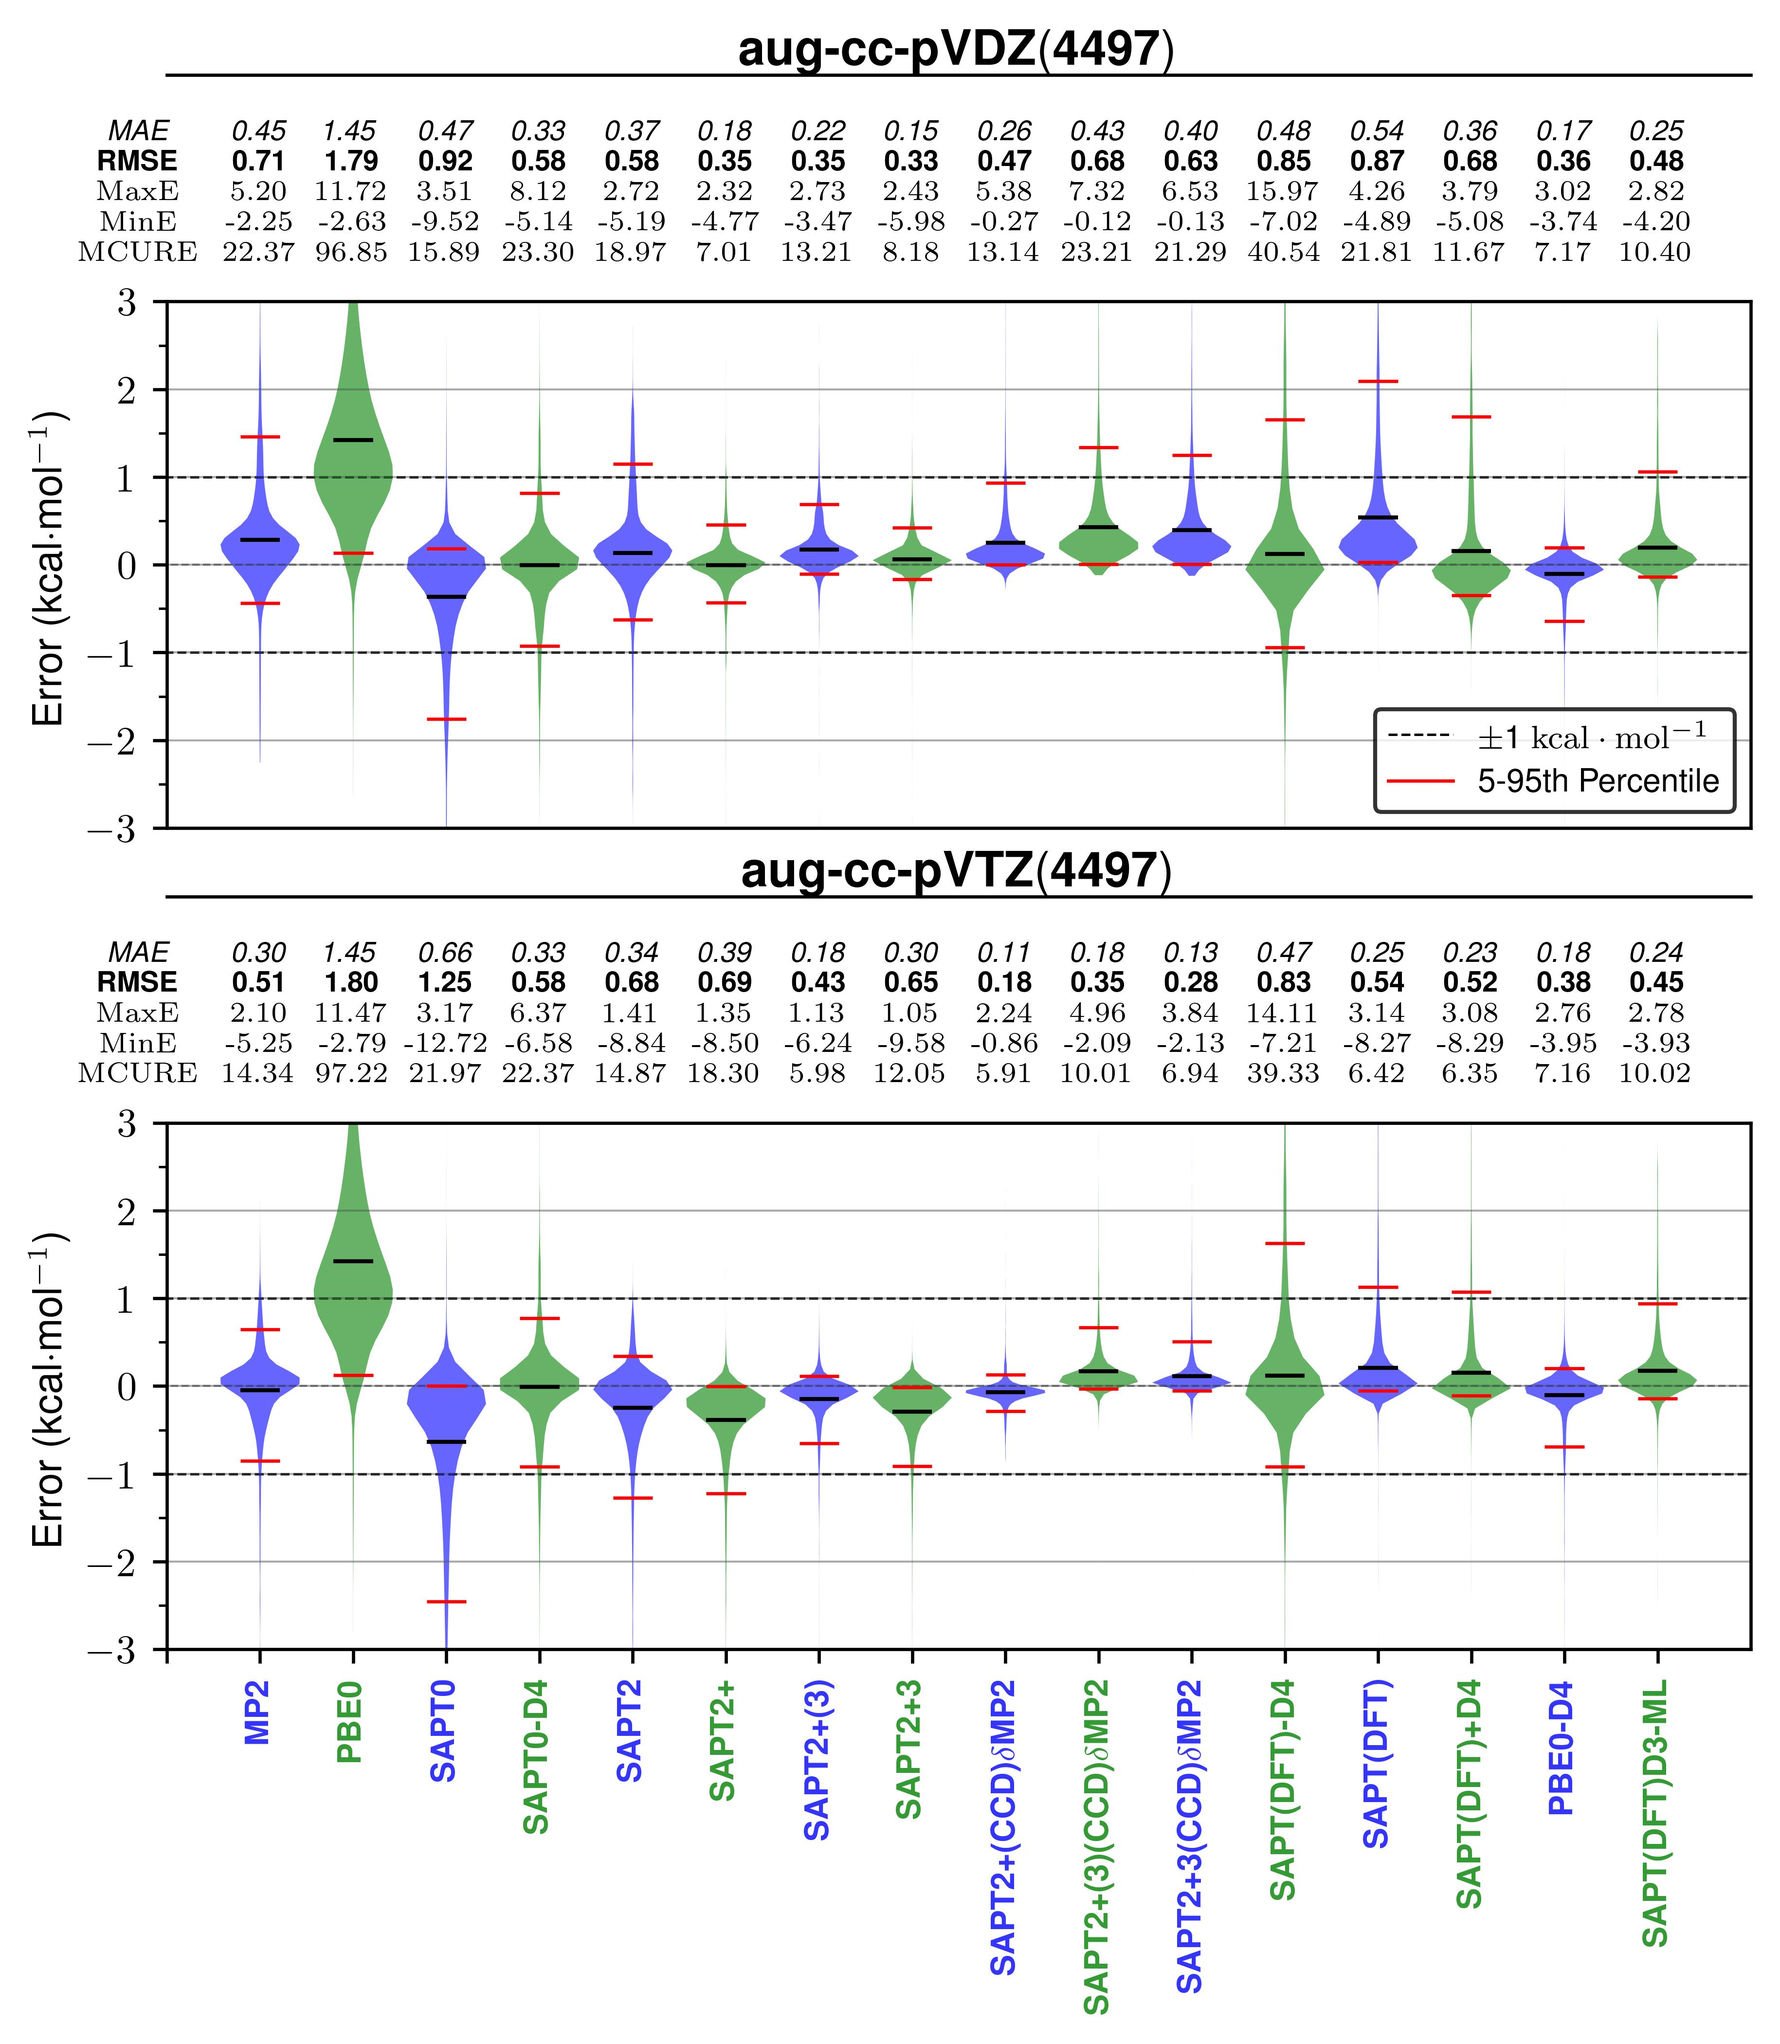
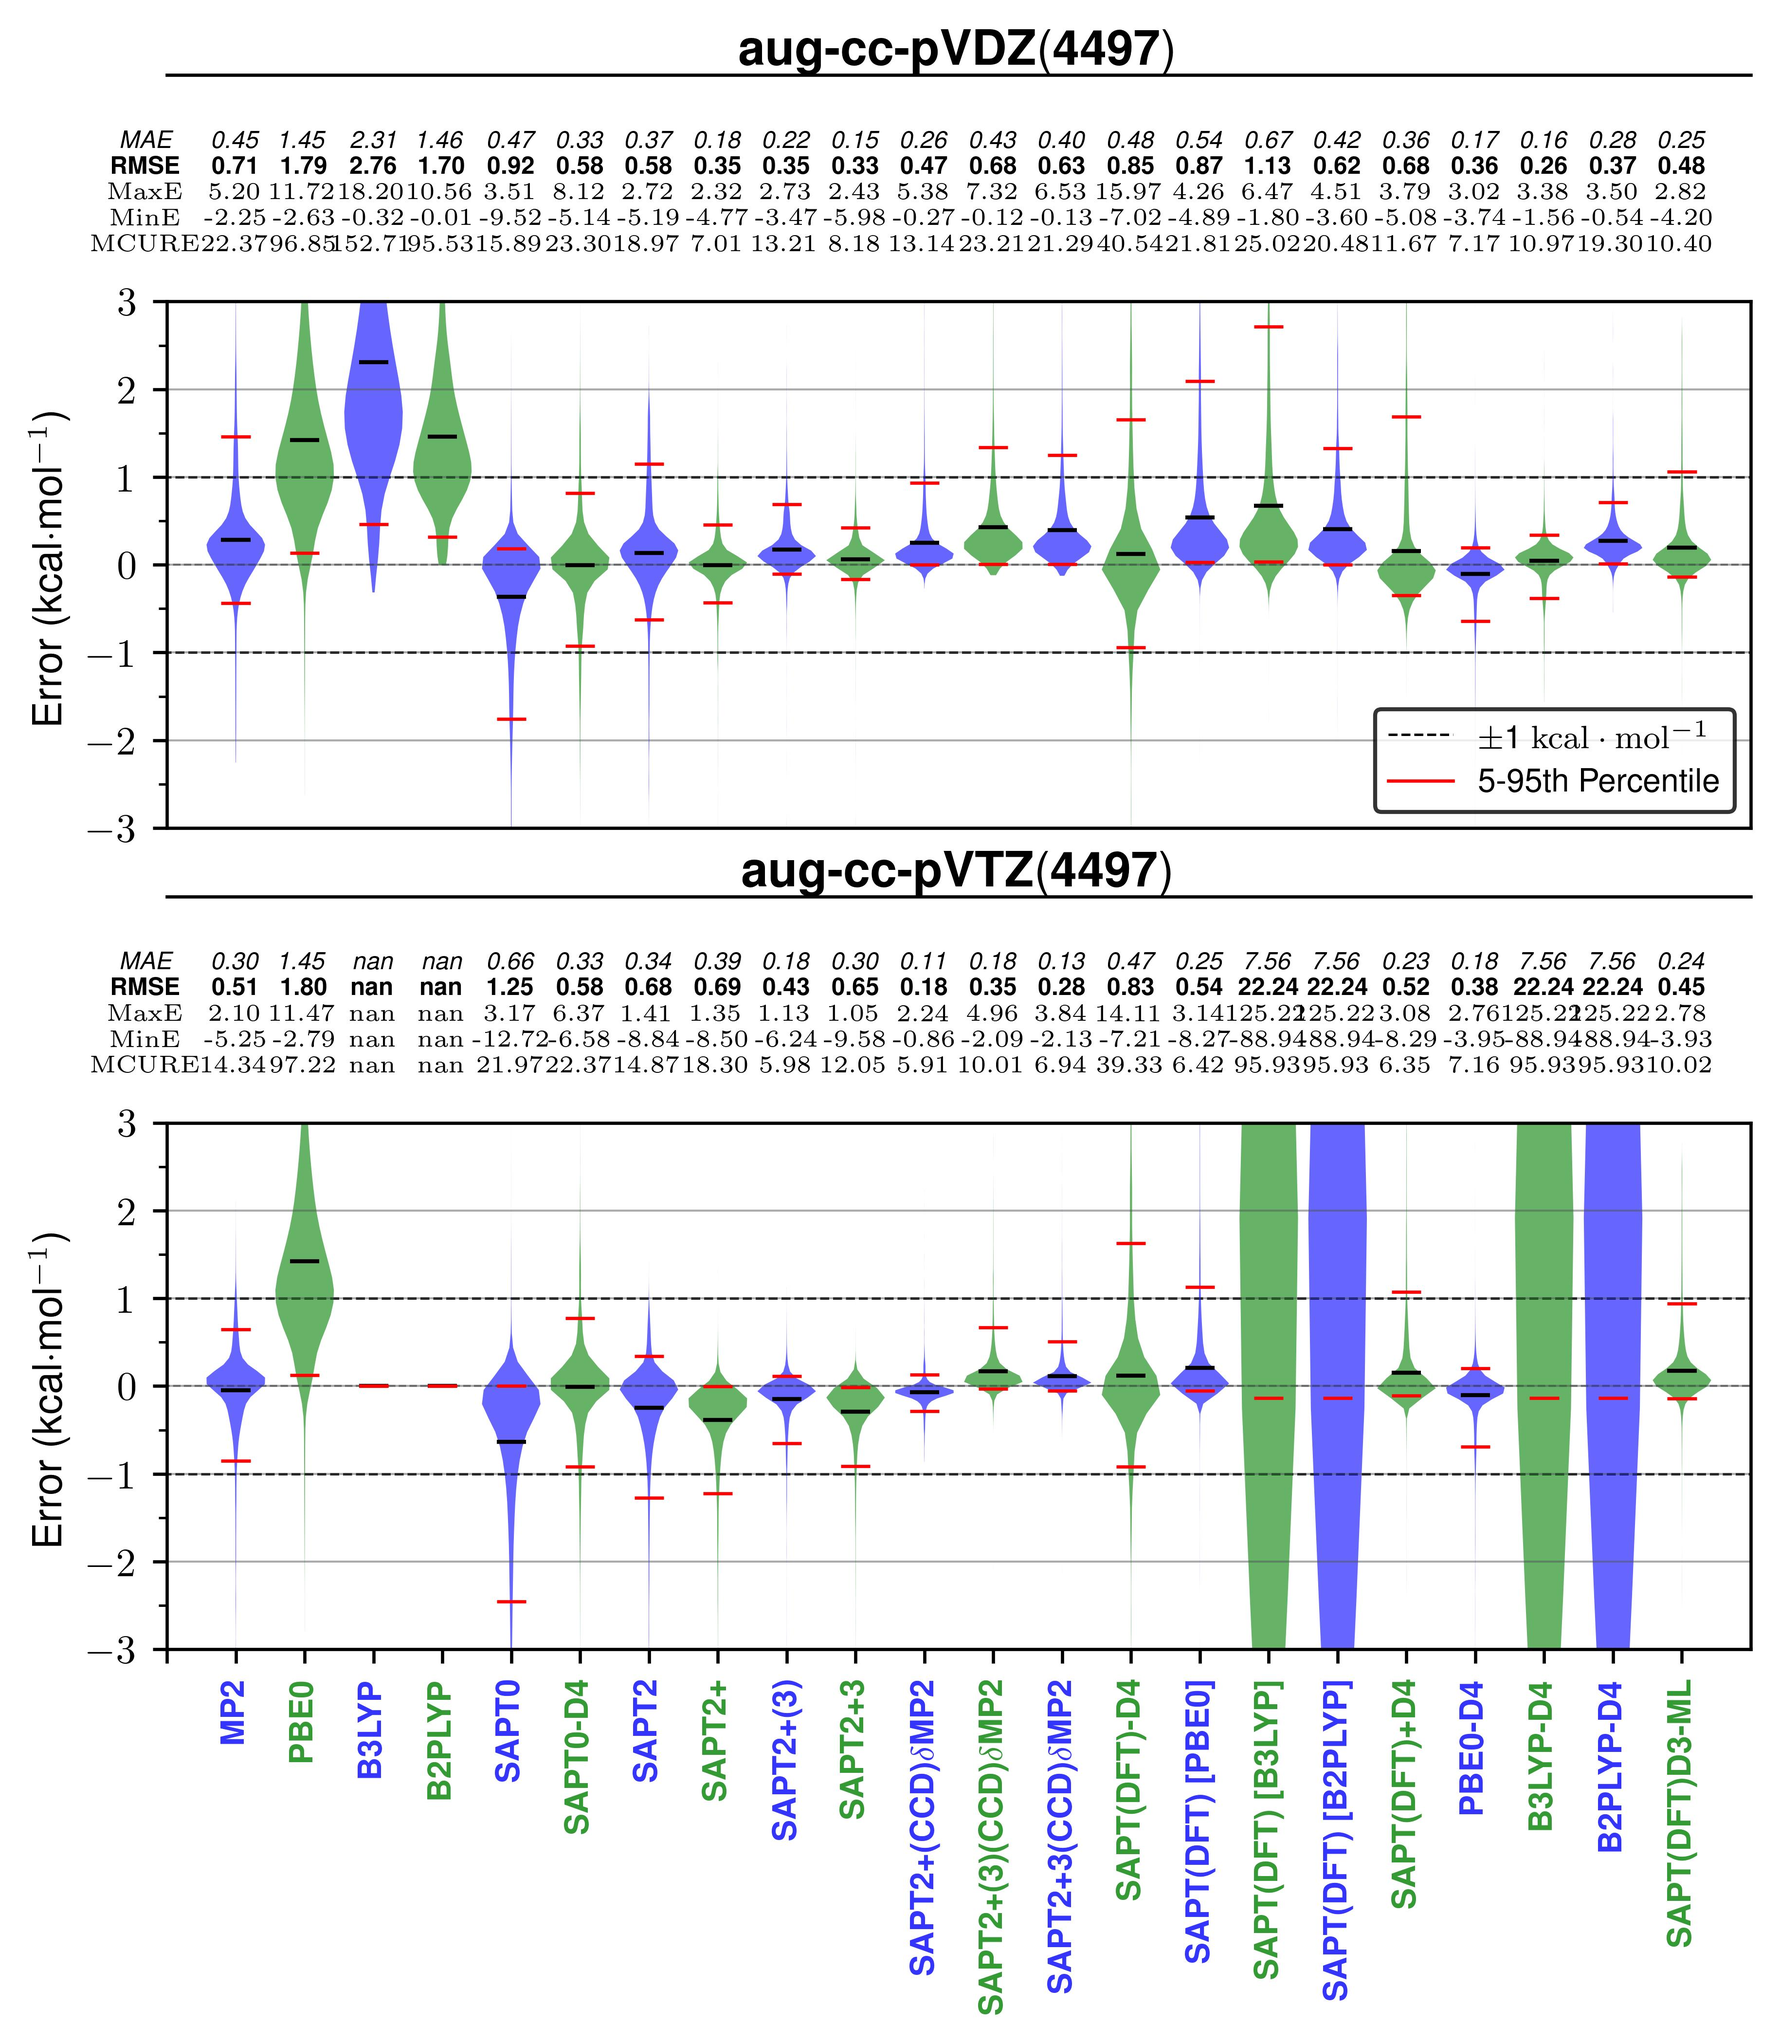
b3lyp and b2plyp plotting adz

Changed region(s): [[0.0312, 0.4368, 0.9661, 0.9983], [0.0623, 0.0624, 0.9661, 0.3744]]

diff --git a/src/plotting.py b/src/plotting.py
@@ -1393,7 +1393,7 @@ def prepare_saptdft_columns(df, functional, basis_set):
     if f"SAPT_DFT_{functional}_{basis_set}" not in df.columns:
         print(f"Zeroing SAPT_DFT_{functional}_{basis_set} because not found...")
         df[f"SAPT_DFT_{functional}_{basis_set}"] = df.apply(
-            lambda x: np.array([0,0,0,0,0]), axis=1
+            lambda x: [0,0,0,0,0], axis=1
         )
         df[f"SAPT_DFT_{functional}_{basis_set}_dDFT"] = df.apply(
             lambda x: 0, axis=1
@@ -1407,11 +1407,11 @@ def prepare_saptdft_columns(df, functional, basis_set):
         df[f"SAPT_DFT_{functional}_{basis_set}_DFT_IE"] = df.apply(
             lambda x: 0, axis=1
         )
-    else:
-        print(df[f"SAPT_DFT_{functional}_{basis_set}"])
+    # else:
+    #     print(df[f"SAPT_DFT_{functional}_{basis_set}"])
 
     df[f"SAPT_DFT_D4_{functional}_{basis_set}_total"] = df.apply(
-        lambda x: compute_saptdft_ddft_ie(x, f"{basis_set}"),
+        lambda x: compute_saptdft_ddft_ie(x, f"{basis_set}", functional=functional),
         axis=1,
     )
     df[f"DFT-D4/{basis_set}"] = df.apply(
@@ -1513,7 +1513,6 @@ def plotting_setup_dft_ddft(
 
         df.dropna(subset=[f"SAPT_DFT_D4_{functional}_{basis_set}_total"], inplace=True)
 
-        print(df[['SAPT_DFT_pbe0_adz_3_IE', "SAPT_DFT_pbe0_adz_elst"]])
 
         df = prepare_saptdft_columns(df, "pbe0", "atz")
         df = prepare_saptdft_columns(df, "pbe0", "aqz")
@@ -1923,7 +1922,33 @@ def plotting_setup_dft_ddft(
             ),
             axis=1,
         )
-        print(df[['SAPT_DFT_pbe0_adz', "SAPT_DFT_pbe0_adz_D4_IE"]])
+
+        df["B3LYP IE adz"] = df.apply(
+            lambda r: (
+                r["SAPT_DFT_b3lyp_adz_dDFT"]
+                + r["SAPT_DFT_b3lyp_adz_elst"]
+                + r["SAPT_DFT_b3lyp_adz_exch"]
+                + r["SAPT_DFT_b3lyp_adz_indu"]
+                - r["SAPT_DFT_b3lyp_adz_dHF"]
+                if r["SAPT_DFT_D4_b3lyp_adz_total"]
+                else np.nan
+            ),
+            axis=1,
+        )
+
+        df["B2PLYP IE adz"] = df.apply(
+            lambda r: (
+                r["SAPT_DFT_b2plyp_adz_dDFT"]
+                + r["SAPT_DFT_b2plyp_adz_elst"]
+                + r["SAPT_DFT_b2plyp_adz_exch"]
+                + r["SAPT_DFT_b2plyp_adz_indu"]
+                - r["SAPT_DFT_b2plyp_adz_dHF"]
+                if r["SAPT_DFT_D4_b2plyp_adz_total"]
+                else np.nan
+            ),
+            axis=1,
+        )
+
         df["PBE0-D4 IE adz"] = df.apply(
             lambda r: (
                 r["PBE0 IE adz"] + r["SAPT_DFT_pbe0_adz_D4_IE"]
@@ -1932,20 +1957,44 @@ def plotting_setup_dft_ddft(
             ),
             axis=1,
         )
-        print(df['PBE0-D4 IE adz'])
+
+        df["PBE0-D4 IE adz"] = df.apply(
+            lambda r: (
+                r["PBE0 IE adz"] + r["SAPT_DFT_pbe0_adz_D4_IE"]
+                if r["SAPT_DFT_D4_pbe0_adz_total"]
+                else np.nan
+            ),
+            axis=1,
+        )
+
+        df["B2PLYP-D4 IE adz"] = df.apply(
+            lambda r: (
+                r["B2PLYP IE adz"] + r["SAPT_DFT_b2plyp_adz_D4_IE"]
+                if r["SAPT_DFT_D4_b2plyp_adz_total"]
+                else np.nan
+            ),
+            axis=1,
+        )
+
+        df["B3LYP-D4 IE adz"] = df.apply(
+            lambda r: (
+                r["B3LYP IE adz"] + r["SAPT_DFT_b3lyp_adz_D4_IE"]
+                if r["SAPT_DFT_D4_b3lyp_adz_total"]
+                else np.nan
+            ),
+            axis=1,
+        )
+
         for n, r in df.iterrows():
-            if np.abs(r["SAPT_DFT_pbe0_adz_total"] - r["PBE0-D4 IE adz"]) > 1e-16:
+            if np.abs(r["SAPT_DFT_D4_pbe0_adz_total"] - r["PBE0-D4 IE adz"]) > 1e-16:
                 print(
                     n,
                     r["benchmark ref energy"],
                     r["SAPT_DFT_pbe0_adz_total"],
                     r["PBE0-D4 IE adz"],
                 )
-        print(len(df))
         df_test = df.dropna(subset=["SAPT_DFT_D4_pbe0_adz_total"])
-        print(len(df_test))
         df_test = df_test.dropna(subset=["PBE0-D4 IE adz"])
-        print(len(df_test))
         assert np.allclose(
             df_test["PBE0-D4 IE adz"], df_test["SAPT_DFT_D4_pbe0_adz_total"], atol=1e-16
         )
@@ -3953,6 +4002,8 @@ def violin_plots_multi(df, limit_to_column_not_nan=None):
     sapt_methods = [
         "MP2 IE",
         "PBE0 IE",
+        "B3LYP IE",
+        "B2PLYP IE",
         "SAPT0 TOTAL ENERGY",
         "SSAPT0 TOTAL ENERGY",
         "SAPT2 TOTAL ENERGY",
@@ -3995,7 +4046,18 @@ def violin_plots_multi(df, limit_to_column_not_nan=None):
         "SAPT_DFT_pbe0_adz_total",
         "SAPT_DFT_D4_pbe0_atz_total",
         "SAPT_DFT_pbe0_atz_total",
+
+        "SAPT_DFT_D4_b3lyp_adz_total",
+        "SAPT_DFT_b3lyp_adz_total",
+        "SAPT_DFT_D4_b3lyp_atz_total",
+        "SAPT_DFT_b3lyp_atz_total",
+
+        "SAPT_DFT_D4_b2plyp_adz_total",
+        "SAPT_DFT_b2plyp_adz_total",
+        "SAPT_DFT_D4_b2plyp_atz_total",
+        "SAPT_DFT_b2plyp_atz_total",
     ]
+    print(df[["SAPT_DFT_D4_pbe0_adz_total", "SAPT_DFT_D4_b3lyp_adz_total",]])
     copy_cols = copy_cols_start.copy()
     copy_cols.extend([f"{c} adz" for c in sapt_methods])
     df_adz = df[copy_cols].copy()
@@ -4003,7 +4065,13 @@ def violin_plots_multi(df, limit_to_column_not_nan=None):
     df_adz.rename(
         columns={
             "SAPT_DFT_D4_pbe0_adz_total": "PBE0-D4 TOTAL ENERGY",
-            "SAPT_DFT_pbe0_adz_total": "SAPT(DFT) TOTAL ENERGY",
+            "SAPT_DFT_pbe0_adz_total": "SAPT(DFT) [PBE0] TOTAL ENERGY",
+
+            "SAPT_DFT_D4_b2plyp_adz_total": "B2PLYP-D4 TOTAL ENERGY",
+            "SAPT_DFT_b2plyp_adz_total": "SAPT(DFT) [B2PLYP] TOTAL ENERGY",
+
+            "SAPT_DFT_D4_b3lyp_adz_total": "B3LYP-D4 TOTAL ENERGY",
+            "SAPT_DFT_b3lyp_adz_total": "SAPT(DFT) [B3LYP] TOTAL ENERGY",
         },
         inplace=True,
     )
@@ -4015,13 +4083,24 @@ def violin_plots_multi(df, limit_to_column_not_nan=None):
     df_atz.rename(
         columns={
             "SAPT_DFT_D4_pbe0_atz_total": "PBE0-D4 TOTAL ENERGY",
-            "SAPT_DFT_pbe0_atz_total": "SAPT(DFT) TOTAL ENERGY",
+            "SAPT_DFT_pbe0_atz_total": "SAPT(DFT) [PBE0] TOTAL ENERGY",
+
+            "SAPT_DFT_D4_b2plyp_atz_total": "B2PLYP-D4 TOTAL ENERGY",
+            "SAPT_DFT_b2plyp_atz_total": "SAPT(DFT) [B2PLYP] TOTAL ENERGY",
+
+            "SAPT_DFT_D4_b3lyp_atz_total": "B3LYP-D4 TOTAL ENERGY",
+            "SAPT_DFT_b3lyp_atz_total": "SAPT(DFT) [B3LYP] TOTAL ENERGY",
+
         },
         inplace=True,
     )
     local_methods = [
         "PBE0-D4 TOTAL ENERGY",
-        "SAPT(DFT) TOTAL ENERGY",
+        "B3LYP-D4 TOTAL ENERGY",
+        "B2PLYP-D4 TOTAL ENERGY",
+        "SAPT(DFT) [PBE0] TOTAL ENERGY",
+        "SAPT(DFT) [B3LYP] TOTAL ENERGY",
+        "SAPT(DFT) [B2PLYP] TOTAL ENERGY",
     ]
     sapt_methods.extend(local_methods)
     for i in sapt_methods:
@@ -4036,6 +4115,8 @@ def violin_plots_multi(df, limit_to_column_not_nan=None):
         # "SAPT2+3(CCD)DMP2": "SAPT2+3(CCD)DMP2 TOTAL ENERGY Error",
         "MP2": "MP2 IE Error",
         "PBE0": "PBE0 IE Error",
+        "B3LYP": "B3LYP IE Error",
+        "B2PLYP": "B2PLYP IE Error",
         "SAPT0": "SAPT0 TOTAL ENERGY Error",
         "SAPT0-D4": "SAPT0-D4 TOTAL ENERGY Error",
         # "SSAPT0": "SSAPT0 TOTAL ENERGY Error",
@@ -4053,9 +4134,13 @@ def violin_plots_multi(df, limit_to_column_not_nan=None):
         "SAPT2+(3)(CCD)DMP2": "SAPT2+(3)(CCD)DMP2 TOTAL ENERGY Error",
         "SAPT2+3(CCD)DMP2": "SAPT2+3(CCD)DMP2 TOTAL ENERGY Error",
         "SAPT(DFT)-D4": "SAPT(DFT)-D4 TOTAL ENERGY Error",
-        "SAPT(DFT)": "SAPT(DFT) TOTAL ENERGY Error",
+        "SAPT(DFT) [PBE0]": "SAPT(DFT) [PBE0] TOTAL ENERGY Error",
+        "SAPT(DFT) [B3LYP]": "SAPT(DFT) [B3LYP] TOTAL ENERGY Error",
+        "SAPT(DFT) [B2PLYP]": "SAPT(DFT) [B2PLYP] TOTAL ENERGY Error",
         "SAPT(DFT)+D4": "SAPT(DFT)+D4 TOTAL ENERGY Error",
         "PBE0-D4": "PBE0-D4 TOTAL ENERGY Error",
+        "B3LYP-D4": "B3LYP-D4 TOTAL ENERGY Error",
+        "B2PLYP-D4": "B2PLYP-D4 TOTAL ENERGY Error",
         "SAPT(DFT)D3-ML": "SAPT(DFT)D3-ML TOTAL ENERGY Error",
     }
     mcure_labels = {}
@@ -4075,7 +4160,7 @@ def violin_plots_multi(df, limit_to_column_not_nan=None):
         dfs,
         df_labels_and_columns,
         f"./plots/LoS_all_adz_atz_saptdft.jpg",
-        table_fontsize=7,
+        table_fontsize=6,
         usetex=True,
         legend_loc="lower right",
         figure_size=(7, 7),

diff --git a/plot_saptdft.py b/plot_saptdft.py
@@ -35,11 +35,12 @@ def main():
     # pp(df.columns.values.tolist())
     df = src.plotting.plotting_setup_dft_ddft(
         df_name,
-        build_df=True,
+        build_df=False,
         split_components=True,
         original_plot=False,
     )
     # return
+    print(df[['SAPT_DFT_pbe0_adz_total', "SAPT_DFT_b3lyp_adz_total"]])
     src.plotting.plot_LoS_saptdft(df)
     return
 
